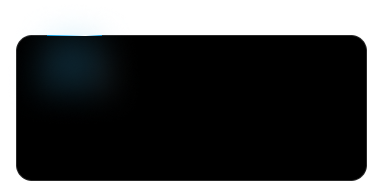
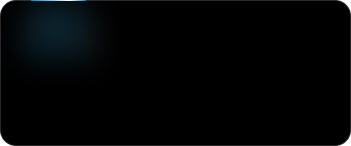
Frontend branch created

Changed region(s): [[0.0, 0.0, 1.0, 1.0], [0.9402, 0.9041, 1.0, 1.0]]

diff --git a/src/components/HowItWorks/HowItWorks.jsx b/src/components/HowItWorks/HowItWorks.jsx
@@ -1,51 +1,67 @@
-import React from 'react'
-import cardbg from "../../assets/howitworkscard.png"
-import circuit from "../../assets/circuit.png"
-import mask from "../../assets/Mask.png"
+import React from 'react';
+import cardbg from '../../assets/howitworkscard.png';
+import circuit from '../../assets/circuit.png';
+import mask from '../../assets/Mask.png';
 
 const HowItWorks = () => {
+  // Define an array of objects for card content
+  const steps = [
+    {
+      id: 1,
+      title: 'Choose your AI platform',
+      description: 'Choose your desired AI platform (e.g., GPT, DALL-E)',
+      icon: circuit, // Reference to your image asset
+    },
+    {
+      id: 2,
+      title: 'Customise Prompt',
+      description: 'Tailor your prompt using our templates and AI suggestions',
+      icon: circuit,
+    },
+    {
+      id: 3,
+      title: 'Generate & Refine',
+      description: 'Generate content, review, and fine-tune for the best results',
+      icon: circuit,
+    },
+  ];
+
   return (
-    <div className='' style={{ backgroundImage: `url(${mask})`, backgroundRepeat: "no-repeat", backgroundSize: "cover"}}>
-        <h3 className="bg-gradient-to-r from-[#DADADA] to-[#999999] bg-clip-text text-transparent text-3xl sm:text-4xl p-8 sm:p-12 font-[Amenti] flex justify-center">How It Works</h3>
-        <div className="flex flex-col sm:flex-row justify-center items-center gap-4 sm:gap-10 pb-16">
-      <div
-        className="w-[300px] h-[150px] flex flex-col justify-center items-center p-6 text-white bg-cover bg-center rounded-md shadow-lg"
-      style={{ backgroundImage: `url(${cardbg})`, backgroundSize: "cover" }} 
-      >
-        <div className="flex flex-col justify-center text-left">
-          <div className="font-semibold mb-2 flex items-center"><img className='w-7 h-7 mr-3' src={circuit} alt="Prompt Icon" /><span className='text-md'>Choose your AI platform</span></div>
-          <p className="text-sm text-[#999999] text-left">
-            Choose your desired AI platform (e.g., GPT, DALL-E)
-          </p>
-        </div>
-      </div>
+    <div
+      className=""
+      style={{
+        backgroundImage: `url(${mask})`,
+        backgroundRepeat: 'no-repeat',
+        backgroundSize: 'cover',
+      }}
+    >
+      <h3 className="bg-gradient-to-r from-[#DADADA] to-[#999999] bg-clip-text text-transparent text-3xl sm:text-4xl p-8 sm:p-12 font-[Amenti] flex justify-center">
+        How It Works
+      </h3>
 
-      <div
-        className="w-[300px] h-[150px] flex flex-col justify-center items-center p-6 text-white bg-cover bg-center rounded-md shadow-lg"
-      style={{ backgroundImage: `url(${cardbg})`, backgroundSize: "cover" }} 
-      >
-        <div className="flex flex-col justify-center text-left">
-          <div className="font-semibold mb-2 flex items-center"><img className='w-7 h-7 mr-3' src={circuit} alt="Prompt Icon" /><span className='text-md'>Customise Prompt</span></div>
-          <p className="text-sm text-[#999999] text-left">
-          Tailor your prompt using our templates and AI suggestions
-          </p>
-        </div>
-      </div>
-
-      <div
-        className="w-[300px] h-[150px] flex flex-col justify-center items-center p-6 text-white bg-cover bg-center rounded-md shadow-lg"
-      style={{ backgroundImage: `url(${cardbg})`, backgroundSize: "cover" }} 
-      >
-        <div className="flex flex-col justify-center text-left">
-          <div className="font-semibold mb-2 flex items-center"><img className='w-7 h-7 mr-3' src={circuit} alt="Prompt Icon" /><span className='text-md'>Generate & Refine</span></div>
-          <p className="text-sm text-[#999999] text-left">
-          Generate content, review, and fine-tune for the best results
-          </p>
-        </div>
+      <div className="flex flex-col sm:flex-row justify-center items-center gap-2 sm:gap-10 pb-16">
+        {steps.map((step) => (
+          <div
+            key={step.id}
+            className="w-[300px] h-[150px] flex flex-col justify-center items-center p-6 text-white bg-cover bg-center rounded-md shadow-lg"
+            style={{
+              backgroundImage: `url(${cardbg})`,
+              backgroundSize: 'contain',
+              backgroundRepeat: 'no-repeat',
+            }}
+          >
+            <div className="flex flex-col justify-center text-left">
+              <div className="font-semibold mb-2 flex items-center">
+                <img className="w-7 h-7 mr-3" src={step.icon} alt="Step Icon" />
+                <span className="text-md">{step.title}</span>
+              </div>
+              <p className="text-sm text-[#999999] text-left">{step.description}</p>
+            </div>
+          </div>
+        ))}
       </div>
     </div>
-    </div>
-  )
-}
+  );
+};
 
-export default HowItWorks
+export default HowItWorks;

diff --git a/src/components/FreeTrial.jsx b/src/components/FreeTrial.jsx
@@ -4,8 +4,8 @@ import { Link } from "react-router-dom";
 const FreeTrial = () => {
   return (
     <div class="w-[90%] sm:w-[70%] flex flex-col sm:flex-row justify-between items-center mx-auto px-6 py-10 sm:px-16 sm:py-24 gap-8 bg-gradient-to-b from-[#121212] to-[#040404] rounded-3xl mt-12 mb-28">
-      <div className="flex flex-col gap-7">
-        <span class="text-2xl sm:text-5xl font-semibold font-[Inter] bg-gradient-text bg-clip-text text-transparent">
+      <div className="flex flex-col gap-7 justify-center">
+        <span class="text-3xl sm:text-5xl font-semibold font-[Inter] bg-gradient-text bg-clip-text text-transparent">
           7 - Day <span className="text-[#32a9df]">Free</span> Trial!
         </span>
         <span class="font-[Inter] text-md sm:text-3xl font-semibold bg-gradient-text bg-clip-text text-transparent">

diff --git a/src/components/HomeCards.jsx b/src/components/HomeCards.jsx
@@ -20,7 +20,7 @@ const HomeCards = () => {
         <div
           key={index}
           className="max-w-[530px] max-h-[260px] flex flex-col justify-center items-center py-10 mx-4 px-4 sm:py-16 sm:px-10 sm:mx-0 text-white bg-cover bg-center rounded-md shadow-lg"
-          style={{ backgroundImage: `url(${cardbg})`, backgroundSize: "cover" }}
+          style={{ backgroundImage: `url(${cardbg})`, backgroundSize: "contain",backgroundRepeat: "no-repeat" }}
         >
           <div className="flex flex-col justify-center text-left">
             <div className="font-semibold mb-5 flex items-center">

diff --git a/src/App.jsx b/src/App.jsx
@@ -9,7 +9,6 @@ import Login from "./components/Login";
 import Register from "./components/Register";
 import TokenDetails from "./components/TokenDetails";
 import Footer from "./components/Footer";
-import HowItWorksCard from "./components/HowItWorks/HowItWorksCard";
 import HowItWorks from "./components/HowItWorks/HowItWorks";
 import ProfilePage from "./components/ProfilePage";
 

diff --git a/src/components/Home.jsx b/src/components/Home.jsx
@@ -1,6 +1,5 @@
 import React from "react";
 import star from "../assets/Home/star.png";
-import HowItWorksCard from "./HowItWorks/HowItWorksCard";
 import HomeCards from "./HomeCards";
 import { Link } from "react-router-dom";
 
